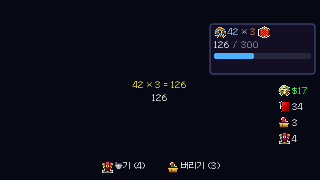
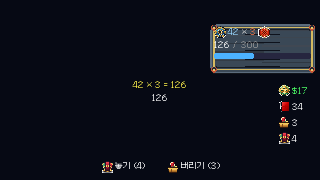
feat(ui): add high-res metal panel for the scoreboard
Convert a 640x368 bronze HUD master through Asset Studio Pixel Perfect
into an 80x46 9-slice runtime tile and draw it behind the scoreboard.

Changed region(s): [[0.6562, 0.1111, 1.0, 0.4167]]

diff --git a/tools/asset_pipeline/generate_panel.py b/tools/asset_pipeline/generate_panel.py
@@ -1,13 +1,14 @@
 #!/usr/bin/env python3
-"""Project-authored 640x368 lacquered wood panel master for 9-slice UI."""
+"""Project-authored 640x368 9-slice UI panel masters."""
 
 from pathlib import Path
 from PIL import Image, ImageDraw
 
 W, H, R = 640, 368, 48
+OUT_DIR = Path("assets/masters/ui")
 
 
-def run() -> None:
+def wood() -> Image.Image:
     im = Image.new("RGBA", (W, H), (0, 0, 0, 0))
     draw = ImageDraw.Draw(im)
     draw.rounded_rectangle((0, 10, W, H), radius=R, fill=(36, 16, 8, 255))
@@ -23,10 +24,37 @@ def run() -> None:
         draw.line((x, y, x + dx * 78, y), fill=(232, 186, 86, 255), width=14)
         draw.line((x, y, x, y + dy * 78), fill=(232, 186, 86, 255), width=14)
         draw.ellipse((x - 10, y - 10, x + 10, y + 10), fill=(255, 224, 140, 255))
-    out = Path("assets/masters/ui/panel-wood-v1.png")
-    out.parent.mkdir(parents=True, exist_ok=True)
-    im.save(out)
-    print(f"Saved {out}")
+    return im
+
+
+def metal() -> Image.Image:
+    """Patina bronze plaque with taegeuk-inspired corner bosses for HUD 9-slice."""
+    im = Image.new("RGBA", (W, H), (0, 0, 0, 0))
+    draw = ImageDraw.Draw(im)
+    draw.rounded_rectangle((0, 12, W, H), radius=R, fill=(18, 22, 28, 255))
+    draw.rounded_rectangle((0, 0, W, H - 12), radius=R, fill=(92, 108, 124, 255))
+    draw.rounded_rectangle((12, 10, W - 12, H - 24), radius=36, fill=(58, 72, 86, 255))
+    for y in range(32, H - 40, 14):
+        shine = 70 + (y * 2) % 36
+        draw.line((30, y, W - 30, y + 2), fill=(shine, shine + 12, shine + 22, 160), width=3)
+        draw.line((38, y + 7, W - 44, y + 4), fill=(28, 34, 42, 90), width=2)
+    draw.rounded_rectangle((24, 20, W - 24, H - 36), radius=26, outline=(214, 186, 96, 255), width=10)
+    draw.rounded_rectangle((42, 36, W - 42, H - 52), radius=16, outline=(24, 30, 38, 255), width=6)
+    for cx, cy in ((28, 26), (W - 28, 26), (28, H - 38), (W - 28, H - 38)):
+        draw.ellipse((cx - 22, cy - 22, cx + 22, cy + 22), fill=(196, 86, 54, 255))
+        draw.pieslice((cx - 18, cy - 18, cx + 18, cy + 18), 180, 360, fill=(36, 42, 54, 255))
+        draw.ellipse((cx - 7, cy - 7, cx + 7, cy + 7), fill=(232, 204, 110, 255))
+    return im
+
+
+def run() -> None:
+    OUT_DIR.mkdir(parents=True, exist_ok=True)
+    wood_path = OUT_DIR / "panel-wood-v1.png"
+    metal_path = OUT_DIR / "panel-metal-v1.png"
+    wood().save(wood_path)
+    metal().save(metal_path)
+    print(f"Saved {wood_path}")
+    print(f"Saved {metal_path}")
 
 
 if __name__ == "__main__":

diff --git a/docs/GENERATED_ASSET_LOG.md b/docs/GENERATED_ASSET_LOG.md
@@ -250,3 +250,8 @@
 2026-09-09T12:02:25+0900 | assets/runtime/ui/btn-disabled-v1.png | btn_disabled button graphic generated via PIL rounded rectangle
 2026-09-09T12:15:00+0900 | assets/masters/ui/panel-wood-v1.png | High-resolution lacquered wood panel with brass corner braces for 9-slice UI
 2026-09-09T12:15:00+0900 | assets/runtime/ui/panel-wood-v1.png | 80x46 runtime downscale for 9-slice UI panel
+| 2026-09-09T12:21:53+0900 | `assets/masters/ui/panel-metal-v1.svg` | Project-authored high-resolution patina bronze HUD panel with taegeuk corner bosses for 9-slice UI |
+| 2026-09-09T12:21:53+0900 | `assets/masters/ui/panel-metal-v1.png` | Preserved 640×368 RGBA raster master generated from the vector source |
+| 2026-09-09T12:21:53+0900 | `assets/runtime/ui/panel-metal-v1.png` | 80×46 runtime 9-slice tile from actual Asset Studio `POST /api/pixel-perfect`; original palette, hard alpha, nearest validation 5/5 |
+| 2026-09-09T12:21:53+0900 | `assets/runtime/ui/panel-metal-v1.report.json` | Asset Studio conversion report recording dimensions, alpha bounds, 16-color palette, alignment, and nearest-neighbor validation |
[1 lines of base64/hex data omitted]

diff --git a/docs/STATUS.md b/docs/STATUS.md
@@ -1,4 +1,12 @@
 # STATUS
+## 2026-09-09 — 점수판 금속 패널 고해상도 픽셀 에셋 적용
+
+- `ui.panel_metal`에 640×368 녹청 청동 패와 태극 모서리 장식의 9-slice 패널 SVG/PNG master와 80×46 runtime 에셋을 추가했다.
+- Asset Studio 실제 `POST /api/pixel-perfect` 변환 보고서의 dimensions/alignment/palette/transparentAlpha/nearestNeighbor 검사를 통과하고 기존 `panel_art` 9-slice 모듈에 metal kind를 추가했다.
+- 점수판 배경의 하드코딩된 도형 렌더링을 신규 metal 패널로 교체했고, 엔진 테스트와 LÖVE 320×180 캡처 QA를 통과했다.
+- INBOX (27)은 나머지 그래픽 요소가 미완료이므로 처리 대기로 유지한다.
+- Next slice: `ui.panel_glass` 고해상도 master를 실제 Pixel Perfect runtime으로 변환하고 manifest-backed 9-slice 패널 모듈에 통합한다.
+
 ## 2026-09-09 — 상점/팩 우드 패널 고해상도 픽셀 에셋 적용
 
 - `ui.panel_wood`에 640×368 옻칠 목재 및 황동 모서리 장식의 9-slice 패널 SVG/PNG master와 80×46 runtime 에셋을 추가했다.

diff --git a/docs/ASSET_INVENTORY.md b/docs/ASSET_INVENTORY.md
@@ -102,7 +102,7 @@
 - [ ] `ui.play_bg` - ui.play_bg
 - [ ] `ui.shop_bg` - ui.shop_bg
 - [x] `ui.panel_wood` - ui.panel_wood
-- [ ] `ui.panel_metal` - ui.panel_metal
+- [x] `ui.panel_metal` - ui.panel_metal
 - [ ] `ui.panel_glass` - ui.panel_glass
 - [x] `ui.btn_primary` - ui.btn_primary
 - [x] `ui.btn_secondary` - ui.btn_secondary
